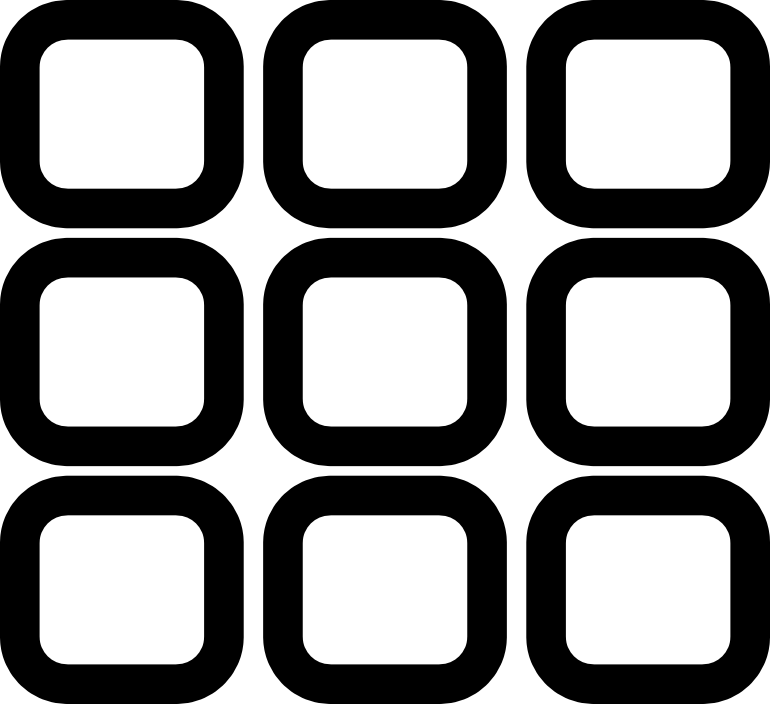
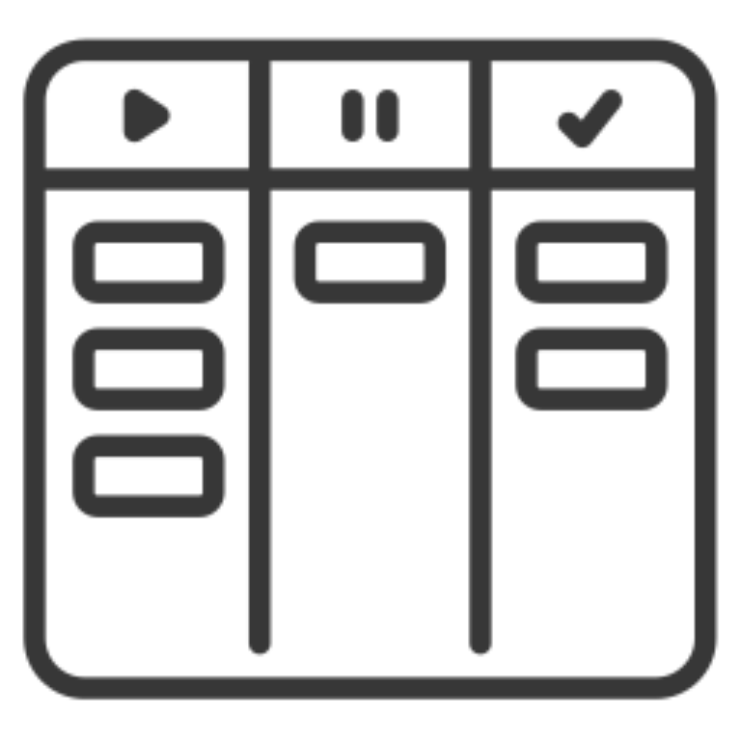
v54: ikon nav Kanban + Media Studio dari kiriman Patria
- Ganti file app/public/kanban-icon.png (741x740, papan 3 kolom:
  play/pause/centang + kartu) dan app/public/media-icon.png (814x815,
  monitor + tombol play + slider) dengan file kiriman Patria — byte
  identik (md5 cocok). Tanpa ubah markup: nav sudah memakai
  ./kanban-icon.png dan ./media-icon.png dengan filter:invert(1),
  sehingga ikon gelap kiriman otomatis tampil terang di rail gelap
  (pola yang sama dengan ikon file lain: chat/campaign/setting).
  File lama tetap ada di riwayat git bila perlu kembali.
- Rig-settings +3 cek: wiring nav (src file ikon) + dimensi IHDR dist
  membuktikan dist menyalin ikon baru, bukan ikon lama.
- Gerbang: root/app tsc 0, svelte-check 0 err/39 warn, vite OK
  (public disalin verbatim), 9 rig PASS, gate-test 14/14, ledger md5
  tak berubah, scan PASSED.

diff --git a/app/tests/rig-settings.js b/app/tests/rig-settings.js
@@ -190,6 +190,18 @@ try {
   document.getElementById('apiKeyGemini').dispatchEvent(new dom.window.Event('input', { bubbles: true }));
   await tick(100);
   check('input dikosongkan -> hijau kunci tersimpan kembali', btn('gemini').textContent === 'TERHUBUNG');
+
+  // 8. Ikon nav v54: wiring + isi file baru (bukti dist menyalin ikon
+  // kiriman Patria, bukan ikon lama). IHDR PNG: lebar di byte 16-19,
+  // tinggi di byte 20-23 (big-endian).
+  const pngSize = (buf) => ({ w: buf.readUInt32BE(16), h: buf.readUInt32BE(20) });
+  const kanbanImg = document.querySelector('button[data-view="kanban"] img');
+  const mediaImg = document.querySelector('button[data-view="media"] img');
+  check('nav kanban + media memakai file ikon', !!kanbanImg && kanbanImg.getAttribute('src') === './kanban-icon.png' && !!mediaImg && mediaImg.getAttribute('src') === './media-icon.png');
+  const kanbanDist = pngSize(fs.readFileSync(path.join(distDir, 'kanban-icon.png')));
+  const mediaDist = pngSize(fs.readFileSync(path.join(distDir, 'media-icon.png')));
+  check('dist kanban-icon = ikon baru 741x740', kanbanDist.w === 741 && kanbanDist.h === 740, JSON.stringify(kanbanDist));
+  check('dist media-icon = ikon baru 814x815', mediaDist.w === 814 && mediaDist.h === 815, JSON.stringify(mediaDist));
 } catch (e) {
   check('rig-settings exception', false, e && e.stack ? e.stack : String(e));
 }
